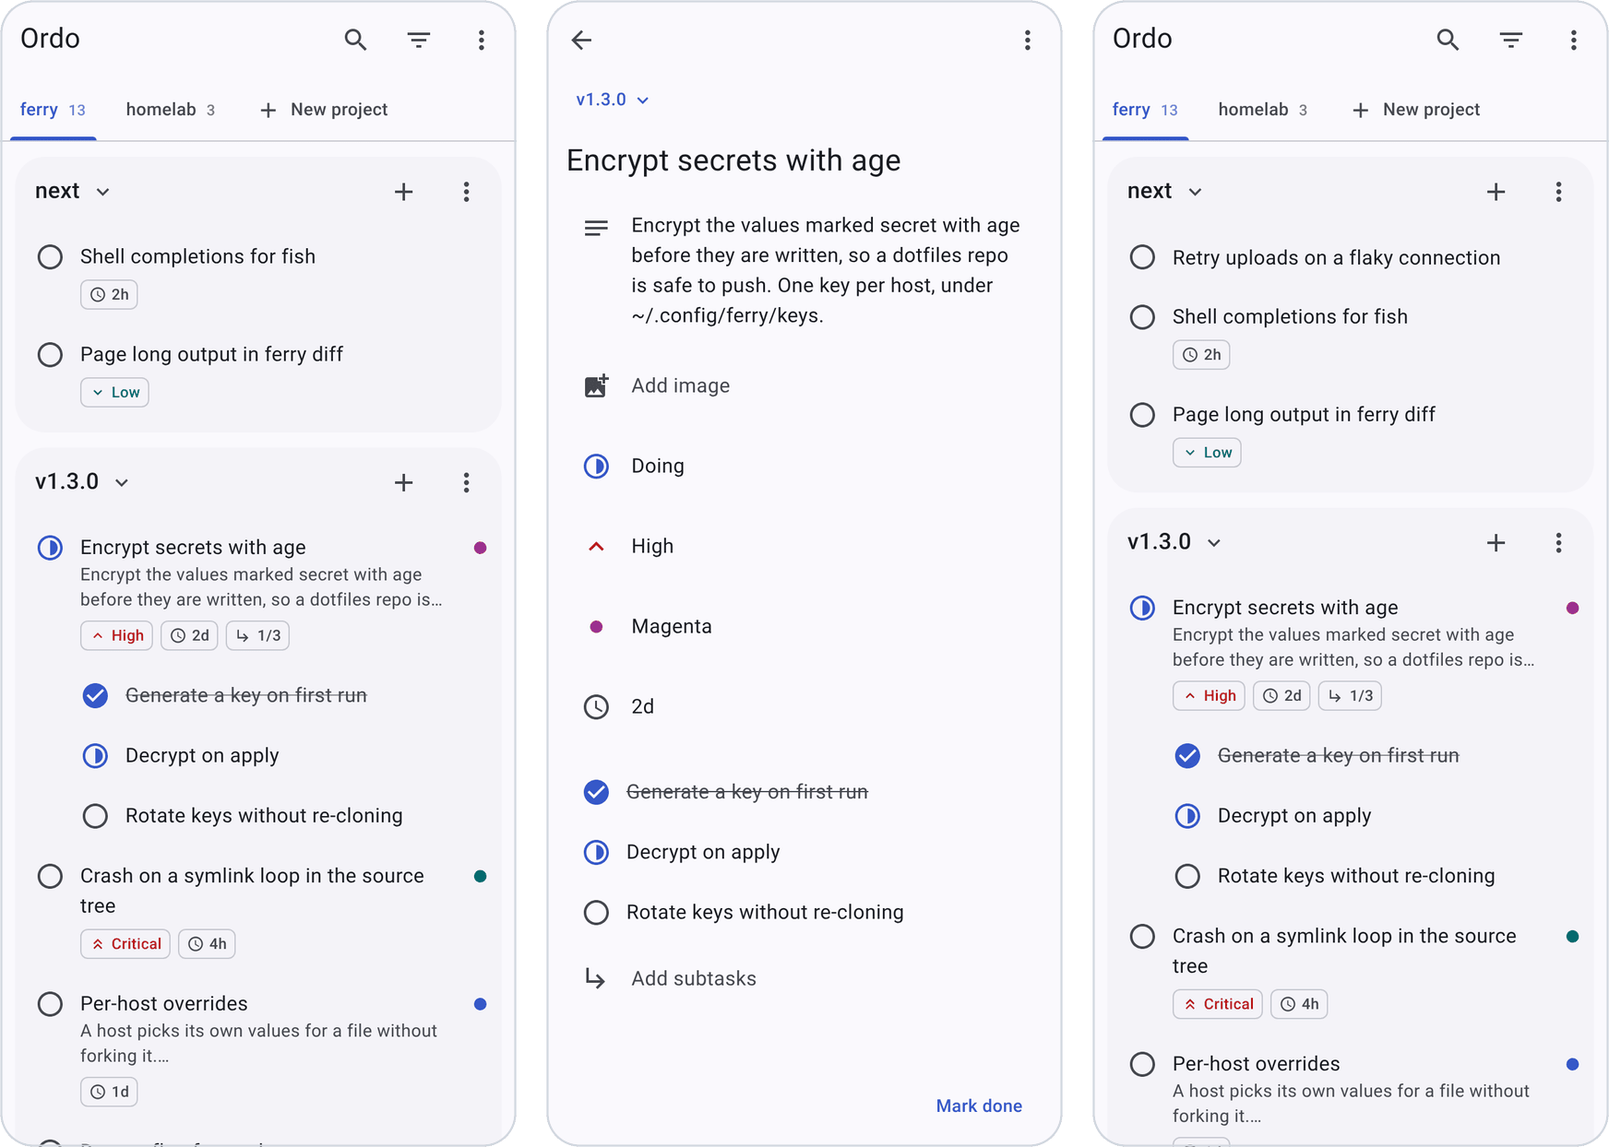
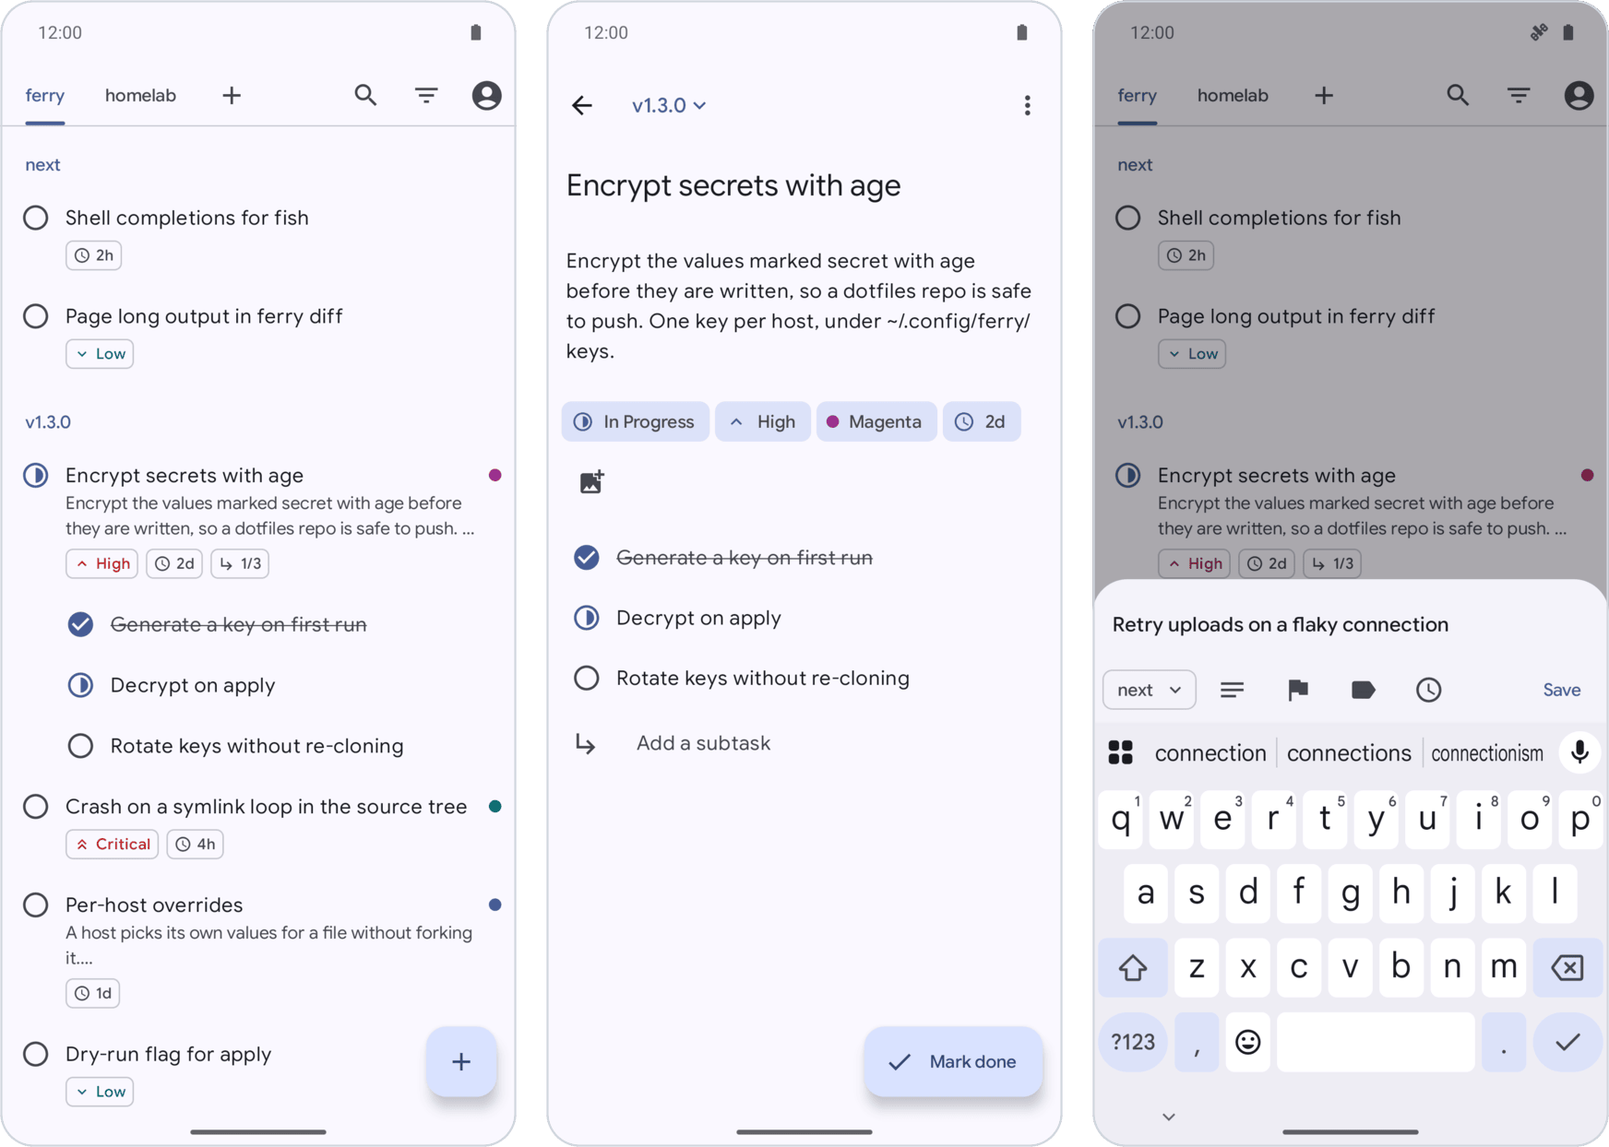
docs: describe the native app as the only app, reshoot its screens

diff --git a/README.md b/README.md
@@ -1,6 +1,6 @@
 # Ordo
 
-A local-only project planner for the terminal, run entirely from the keyboard. Name a category after a version (`v1.3.0`) and `ctrl+a` or `gm` bumps it in place. It is a single binary that keeps each project in a plain JSON file. The terminal app never touches the network; `ordo serve` adds an opt-in [Android and browser app](#on-the-phone).
+A local-only project planner for the terminal, run entirely from the keyboard. Name a category after a version (`v1.3.0`) and `ctrl+a` or `gm` bumps it in place. It is a single binary that keeps each project in a plain JSON file. The terminal app never touches the network; `ordo serve` adds an opt-in [Android app](#on-the-phone).
 
 <picture>
   <source media="(prefers-color-scheme: dark)" srcset="assets/demo-dark.gif">
@@ -29,8 +29,6 @@ yay -S ordo       # build from source
 yay -S ordo-bin   # prebuilt binary
 ```
 
-The source package builds without the browser app, like `go install` below; `ordo-bin` carries it.
-
 ### Nix
 
 Run without installing:
@@ -39,7 +37,7 @@ Run without installing:
 nix run github:ilyasturki/ordo
 ```
 
-Or pin it in your system flake (x86_64-linux, aarch64-linux and aarch64-darwin; only the x86_64-linux build carries the browser app so far):
+Or pin it in your system flake (x86_64-linux, aarch64-linux and aarch64-darwin):
 
 ```nix
 inputs.ordo.url = "github:ilyasturki/ordo";
@@ -52,8 +50,6 @@ inputs.ordo.url = "github:ilyasturki/ordo";
 go install github.com/ilyasturki/ordo/cmd/ordo@latest
 ```
 
-This build leaves out the browser app, so `ordo serve` shows a browser a placeholder page. It still syncs the Android app.
-
 ### Prebuilt binary
 
 Grab `ordo-linux-x64`, `ordo-linux-arm64`, `ordo-darwin-x64` or `ordo-darwin-arm64` from the [releases page](https://github.com/ilyasturki/ordo/releases), `chmod +x` it and put it in your `$PATH`. On macOS, a binary downloaded with a browser also needs `xattr -d com.apple.quarantine <file>`.
@@ -61,8 +57,7 @@ Grab `ordo-linux-x64`, `ordo-linux-arm64`, `ordo-darwin-x64` or `ordo-darwin-arm
 ### From source
 
 ```bash
-just build                    # with the browser app, needs bun
-go build -o ordo ./cmd/ordo   # without it, ordo serve shows a browser a placeholder page
+go build -o ordo ./cmd/ordo
 ```
 
 ## Quick start
@@ -92,29 +87,29 @@ The first run creates a `Default` project. In the TUI, `a` adds a task, `space` 
 
 ## On the phone
 
-Ordo has an Android app, and `ordo serve` serves the same app to a browser. The app keeps a copy of every project, so it opens at once and works without signal: an edit shows right away, waits in a queue, and reaches the project files the next time `ordo serve` answers. It runs the edits through the TUI's own code, compiled to WebAssembly, and `ordo serve` replays the queue through that code under the same project lock, so an edit sent twice, or landing after another device changed the file, never overwrites anyone. An open app syncs as soon as a project file changes on the server. The APK comes with each [release](https://github.com/ilyasturki/ordo/releases).
+Ordo has an Android app, a native one in Kotlin and Jetpack Compose, synced through `ordo serve`. The app keeps a copy of every project, so it opens at once and works without signal: an edit shows right away, waits in a queue, and reaches the project files the next time `ordo serve` answers, even with the app closed. It runs the edits through the TUI's own Go code, and `ordo serve` replays the queue through that code under the same project lock, so an edit sent twice, or landing after another device changed the file, never overwrites anyone. An open app syncs as soon as a project file changes on the server. The APK comes with each [release](https://github.com/ilyasturki/ordo/releases).
 
-The layout follows Google Tasks. Projects are tabs across the top, and each category lists its open tasks and folds the finished ones into a Completed row. Its `+` opens a row at the top to type tasks into, Enter adding each one below the last, and its ⋮ menu renames it, adds a separator or a sub-category, selects its finished tasks or deletes it. Tap a task's circle to step its status, open it to edit its title, details, images, status, priority, tag, estimate and subtasks, and long-press a row to lift it: drag it to reorder, slide it right to nest it under the task above or left to un-nest it, or let it go where it was to start selecting several. Search and Filter sit in the top bar, and every edit offers Undo. A title or details edit that crosses one made elsewhere shows the file's text and offers Keep mine.
+It feels like Google Tasks and behaves like the TUI. Projects are tabs over a pager that follows the finger, and one `+` opens a sheet to add tasks. Finished tasks stay in place, struck through. Tap a task's circle to step its status, open it to edit its title, description, images, status, priority, tag, estimate and subtasks, and long-press a row to drag it. A category's menu renames it, adds a sub-category or a separator, or deletes it. Search and Filter sit in the top bar, with the TUI's rules, and every edit offers Undo. A title or description edit that crosses one made elsewhere shows the file's text and offers Keep mine.
+
+A task's thumbnails open a full-screen viewer, and new images come from the photo picker or the camera, even with no signal: a photo waits on the phone with the edits. Settings → Devices lists the paired devices, signs one out, and shows the code and link that pair a new one.
 
 The TUI doesn't watch the file: once an edit from the app lands, the TUI's next edit is refused and marked, and `r` shows the change, dropping the TUI edits made since.
 
-A native Android app is on trial beside it, in `native/`: Kotlin and Jetpack Compose, the same Go code for the edits, bound with gomobile, and the same pairing and sync. `just native` builds it with the flake's Android SDK and installs it on the connected phone as Ordo Native, next to the Capacitor app. It searches the open project, shows a task's images and takes new ones from the photo picker or the camera, even with no signal: a photo waits on the phone with the edits and reaches `ordo serve` later, app open or not. Settings → Devices lists the paired devices, signs one out, and shows the code and link that pair a new one. A server with a passphrase offers it on the sign-in screen once you type the server's address.
-
 <picture>
   <source media="(prefers-color-scheme: dark)" srcset="assets/phone-dark.png">
-  <img alt="The Ordo app on a phone: the ferry project's tasks under the project tabs, a task with its details, status, priority, tag, estimate and subtasks, and the inline row adding a task" src="assets/phone-light.png">
+  <img alt="The Ordo app on a phone: the ferry project's tasks under the project tabs, a task with its description, status, priority, tag, estimate and subtasks, and the sheet adding a task" src="assets/phone-light.png">
 </picture>
 
 ```bash
 ordo serve --base-url https://ordo.example.com   # listens on 127.0.0.1:7319
-ordo serve pair                                  # a one-time link and QR code that pairs a device
+ordo serve pair                                  # a one-time link and QR code to scan or paste in the app
 ordo serve passphrase                            # optional: sign in without a link
 ordo serve devices                               # the paired devices; ordo serve revoke <id>
 ```
 
 The server speaks plain HTTP, so keep it on loopback behind a TLS reverse proxy. A paired device stays signed in as long as it's used at least once a year.
 
-To pair the Android app, tap Scan the code on its sign-in screen and point the camera at the code `ordo serve pair` prints, or at the one Devices → Pair a new device shows on a device already signed in, or paste the link. A browser pairs by opening the link. Revoking a device also signs out the devices it paired. On NixOS, the flake's module runs it as a service:
+To pair the Android app, tap Scan the code on its sign-in screen and point the camera at the code `ordo serve pair` prints, or at the one Devices → Pair a new device shows on a device already signed in, or paste the link. The link starts with the address `--base-url` gave the server; `ordo serve pair --base-url` overrides it for one link. A server with a passphrase also offers it on the sign-in screen once you type the server's address. Revoking a device also signs out the devices it paired. Anywhere outside `/api`, the server answers a short plain-text page. On NixOS, the flake's module runs it as a service:
 
 ```nix
 imports = [ inputs.ordo.nixosModules.default ];

diff --git a/CHANGELOG.md b/CHANGELOG.md
@@ -8,25 +8,31 @@ All notable changes to ordo are listed here. The format follows [Keep a Changelo
 
 - `l` in the project picker, dialog or full screen, unlinks this directory on the row marked `(linked)`, and the footer reads `l unlink` there. The unlink holds for the rest of the session: opening or creating a project no longer links the directory until `l` links it again
 - A Row marks section at the end of `?` names what each glyph on a row means: status boxes, priority arrows, the tag dot, `¶`, `▣`, the estimate, subtask progress, `✂`, separators, folds and `(filtered out)`. The help filter `/` finds them by meaning
-- A native Android app to try beside the current one, in `native/`: Kotlin and Jetpack Compose with Material 3, installed as Ordo Native next to the Capacitor app. Its edits run through the TUI's own Go code, bound with gomobile, and it syncs with `ordo serve` the way the app does, in the background too once the app is closed. Finished tasks stay in place, struck through, and the filter follows the TUI's rules, counting what it hides in each category; a tap on that count shows the hidden rows until you change project or filter. Projects are tabs over a pager that follows the finger, one `+` opens a sheet on the keyboard to add tasks, and the task page shows only the fields that are set, with Mark done floating at the bottom right. The not-synced icon only shows once edits stay stuck, and tapping it says why. `just native` builds and installs it, `just native-test` and `just native-ui <emulator>` test it
-- Search in the native app: the icon beside the filter opens a search bar on the keyboard and narrows the open project's list in place, matching what the TUI's `/` matches: titles, descriptions, separators and category names, smartcase. Back closes it
-- Images in the native app: a task's thumbnails open a full-screen viewer with pinch to zoom and a swipe between images, and the row of unset fields adds one from the photo picker or the camera. A photo waits on the phone with the edits, counted in the not-synced explanation, and reaches `ordo serve` later even with the app closed. Formats the server refuses, such as a phone's HEIC, become a JPEG
-- Settings → Devices in the native app: the paired devices with this one marked, signing one out behind a confirm, Sign out, and Pair a new device with the code, the link and the share sheet. Sign out moved there from Settings
-- Passphrase sign-in in the native app: the sign-in field also takes a server's address, and the passphrase shows only when that server has one, or at once when signing back in after a session ended
 
 ### Changed
 
 - `enter` or `space` on a category's `(N hidden by the filter)` row shows those tasks in place, marked `(filtered out)`, until the cursor leaves the category, where it used to clear the whole filter. The filter and its saved copy stay as they were; `f` → Clear all filters still clears it
 - The project picker dialog (`ctrl+p`) has the rounded border of the other dialogs, so it stands out from the list behind it. The full-screen picker stays frameless
 - Four tag marks instead of eight: `t`, `T`, the filter and the app offer the four coloured dots and drop the diamonds. A diamond already in a project file, or sent by an older app, reads as its colour's dot
-- The native app moves like any other Android app: its pages open and close, and follow the back gesture, with the system's own animation, and the custom motion is gone (the status circle's bounce, the Mark done button's scale, the tab colour fade, the expressive motion scheme). Sounds and haptics are unchanged
-- The native app does what the TUI does: Mark done stays on the task's page, statuses read Todo, In Progress, Completed and Cancelled (in the app's messages too), a new separator lands first in its category and needs no label, labels read as typed and can be cleared, a task or separator the filter would hide is refused with the TUI's words, finished rows keep their marks, an empty category says No tasks, the filter lists Category before Tag, a sub-category's menu adds a sibling, and deleting the open project opens the first one. "Details" is now "description"
-- Undo brings back a category deleted in the native app, with its sub-categories and tasks, through a new `category.restore` op in [`docs/sync.md`](docs/sync.md)
+- The Android app is now native, in `native/`: Kotlin and Jetpack Compose with Material 3. The release APK keeps the app id `io.github.ilyasturki.ordo` and its signing key, so it updates the old app in place, but starts signed out: pair it again. Its edits run through the TUI's own Go code, bound with gomobile, and it syncs with `ordo serve` over the same API, in the background too once the app is closed. Finished tasks stay in place, struck through, and the filter follows the TUI's rules, counting what it hides in each category; a tap on that count shows the hidden rows until you change project or filter. Projects are tabs over a pager that follows the finger, one `+` opens a sheet on the keyboard to add tasks, and the task page shows only the fields that are set, with Mark done floating at the bottom right. The not-synced icon only shows once edits stay stuck, and tapping it says why. On a paired server, the device shows as "<model> · Ordo". `just native` builds and installs it as Ordo Dev, `just native-test` and `just native-ui <emulator>` test it, and `just dev-phone` runs it on the USB phone, signed in by itself to a throwaway seeded server
+- Search in the app: the icon beside the filter opens a search bar on the keyboard and narrows the open project's list in place, matching what the TUI's `/` matches: titles, descriptions, separators and category names, smartcase. Back closes it
+- Images in the app: a task's thumbnails open a full-screen viewer with pinch to zoom and a swipe between images, and the row of unset fields adds one from the photo picker or the camera. A photo waits on the phone with the edits, counted in the not-synced explanation, and reaches `ordo serve` later even with the app closed. Formats the server refuses, such as a phone's HEIC, become a JPEG
+- Settings → Devices in the app: the paired devices with this one marked, signing one out behind a confirm, Sign out, and Pair a new device with the code, the link and the share sheet
+- Passphrase sign-in in the app: the sign-in field also takes a server's address, and the passphrase shows only when that server has one, or at once when signing back in after a session ended
+- The app moves like any other Android app: its pages open and close, and follow the back gesture, with the system's own animation
+- The app does what the TUI does: Mark done stays on the task's page, statuses read Todo, In Progress, Completed and Cancelled (in the app's messages too), a new separator lands first in its category and needs no label, labels read as typed and can be cleared, a task or separator the filter would hide is refused with the TUI's words, finished rows keep their marks, an empty category says No tasks, the filter lists Category before Tag, a sub-category's menu adds a sibling, and deleting the open project opens the first one. "Details" is now "description"
+- Undo brings back a category deleted in the app, with its sub-categories and tasks, through a new `category.restore` op in [`docs/sync.md`](docs/sync.md)
+- `ordo serve pair` says to scan the code or paste the link in the Ordo app, and warns when it has no address to put in the link but localhost, which a phone can't reach
+
+### Removed
+
+- **Breaking:** the browser app and the old Capacitor Android app. `ordo serve` now answers only its sync API, under `/api`, and a short plain-text page anywhere else, so a browser can no longer open your projects and a device pairs through `ordo serve pair` or Devices on a paired device. Every build of `ordo serve` is now the same, with no bundle and no placeholder page. Selecting several tasks and nesting a task by dragging it went with the old app
+- `just dev`, `just web`, `just wasm`, `just android`, `just phone` and `just web-deps-hash`. `nix build` no longer needs node
 
 ### Fixed
 
 - Creating a project from the picker, or deleting the current project, no longer replaces the directory's link to another project, and deleting the linked project drops its link
-- The native app's tab underline sits exactly under its tab, at rest and mid-swipe; it was 16dp too far right
+- The app's tab underline sits exactly under its tab, at rest and mid-swipe; it was 16dp too far right
 
 ## [0.13.0] - 2026-10-29
 

diff --git a/AGENTS.md b/AGENTS.md
@@ -30,8 +30,8 @@ An edit a user can make lives once, in `internal/operations`, addressed by IDs,
 and gets an entry in `operations.Actions` marked `TUI`, `App` or `Both`. The TUI
 handlers call it and keep only their cursor, modes, undo history and status line
 around the call. An `App` action is an `operations.Op` run by `operations.Apply`:
-the app runs it on its own copy through `internal/core`, built to WebAssembly
-from `cmd/ordo-core`, and `ordo serve` replays the app's queue through it.
+the Android app runs it on its own copy through `internal/core`, bound with
+gomobile in `native/core`, and `ordo serve` replays the app's queue through it.
 `TestEveryAppActionApplies` goes red when an `App` action has no applier, and
 `operations.Undo` gives each op the ops that take it back.
 
@@ -40,41 +40,40 @@ a file changed since gives the same result. A step from the current state
 (`status.cycle`, `task.shift`, `task.nest`) runs in the app only, and
 `operations.Perform` turns it into the replayable op that gets queued.
 `docs/sync.md` is the contract of `/api` and its op table: a change to an op's
-fields or the sync answer updates it in the same commit, and bumps `web.Protocol`
-when its Protocol section says so.
+fields or the sync answer updates it and `sync/SyncEngine.kt` in the same commit,
+and bumps `web.Protocol` when its Protocol section says so.
 
-The app in `app/` is SvelteKit built static, with Svelte 5, Tailwind 4, bits-ui,
-vaul-svelte, Capacitor 8 for the Android shell, and bun. `ordo serve` embeds its
-browser build from `internal/web/spa/`, and the APK ships the same build; a Go
-build without it serves `placeholder.html`. Its colors are tokens on `:root` in
-`app/src/app.css`, redefined for dark mode. Run `bun run check` and `bun run test`
-in `app/` after a change to it; the tests load the real core, so run `just wasm`
-first. `just web` fills `internal/web/spa/`, and `just android` installs a debug
-APK on the connected phone. A change to `app/bun.lock` needs `just web-deps-hash`,
-or `nix build` fails on the stale hash of `node_modules`.
+# The app
 
-Run `./testdata/web/run.sh [shot-name]` after a UI change: it builds the app,
-seeds `testdata/web/seed.json`, serves it and writes light and dark PNGs at phone
-width to `/tmp/ordo-web/out/` (`ORDO_WEB_SIZE=340x734` for a narrow phone). Read
-them, then `rm -rf /tmp/ordo-web`. Add a shot in `fixture-shots.mjs` for a new
-screen or sheet. `just phone` reshoots the README's phone screens from
-`assets/phone/` after a change to the list, the task page or the add row.
+`native/` holds the Android app (Kotlin, Jetpack Compose, Material 3). A page is
+an activity (`PageActivity`, a `NavKey`), so the system draws its open, close and
+predictive back; all motion stays the platform's default, apart from what follows
+the finger. Behaviour comes from the TUI; only the feel comes from Google Tasks.
+`native/core` is a module of its own that `./...` and `nix build` skip, so an op
+change reaches the app at the next `just native-core`, with no Kotlin change.
+`nix develop .#native` provides its SDK and NDK; `release.yml`'s `apk` job and
+`ci.yml`'s `native` job name the same versions as `nix/android-sdk.nix`.
 
-# Native app
+The app id is `io.github.ilyasturki.ordo`, and `.dev` for the `debug` and `phone`
+builds, while the Kotlin packages stay `io.github.ilyasturki.ordo.compose`.
+`src/debug` also feeds the `phone` build, and holds what a release must lack: the
+"Ordo Dev" label and `DevSignInActivity`, the adb way in. A local `assembleRelease`
+is unsigned unless `ORDO_KEYSTORE` and its three companions are set.
 
-`native/` holds a native Android app (Kotlin, Jetpack Compose, Material 3) on
-trial beside the Capacitor one. A page is an activity (`PageActivity`, a
-`NavKey`), so the system draws its open, close and predictive back; all motion
-stays the platform's default, apart from what follows the finger. Its edits run
-`internal/core` bound with gomobile in `native/core`, a module of its own that
-`./...` and `nix build` skip, so an op change reaches it at the next
-`just native-core` with no Kotlin change. Its sync engine, `sync/SyncEngine.kt`,
-ports `app/src/lib/state.svelte.ts`: a change to `docs/sync.md` lands in both.
-`nix develop .#native` provides its SDK and NDK. `just native-test` runs its Go
-and JVM tests, the JVM ones against the real core through
-`native/core/cmd/corepipe` and a real `ordo serve`. `just native-ui <serial>`
-runs its Compose tests against a seeded `ordo serve` on `ORDO_UI_PORT` (7466), on
-the emulator that serial names: Gradle's connected
-tasks install on every attached device, the user's phone included.
-`just native` installs the `phone` build, R8-optimized and signed with the
-debug key under the debug id `io.github.ilyasturki.ordo.compose.dev`.
+Run after a change to the app:
+
+- `just native-test`: its Go and JVM tests, the JVM ones against the real core
+  through `native/core/cmd/corepipe` and a real `ordo serve`.
+- `just native-ui <serial>`: its Compose tests, starting from `AppFixture`, against
+  a seeded `ordo serve` on `ORDO_UI_PORT` (7466), on the emulator that serial names:
+  Gradle's connected tasks install on every attached device, the user's phone
+  included.
+- Check screens by eye, light and dark, on an emulator: `ANDROID_SERIAL=<serial>
+  just dev-phone` installs the `phone` build signed in to a server seeded from
+  `testdata/native/seed.json`, then `adb -s <serial> exec-out screencap -p`, with
+  `adb -s <serial> shell cmd uimode night yes` for dark. The README's
+  `assets/phone-light.png` and `phone-dark.png` are such shots of the list, a task
+  and the add sheet on `assets/demo/ferry.json`: retake them after a change to one.
+
+`just native` installs the `phone` build, R8-optimized and signed with the debug
+key, on the connected phone.
